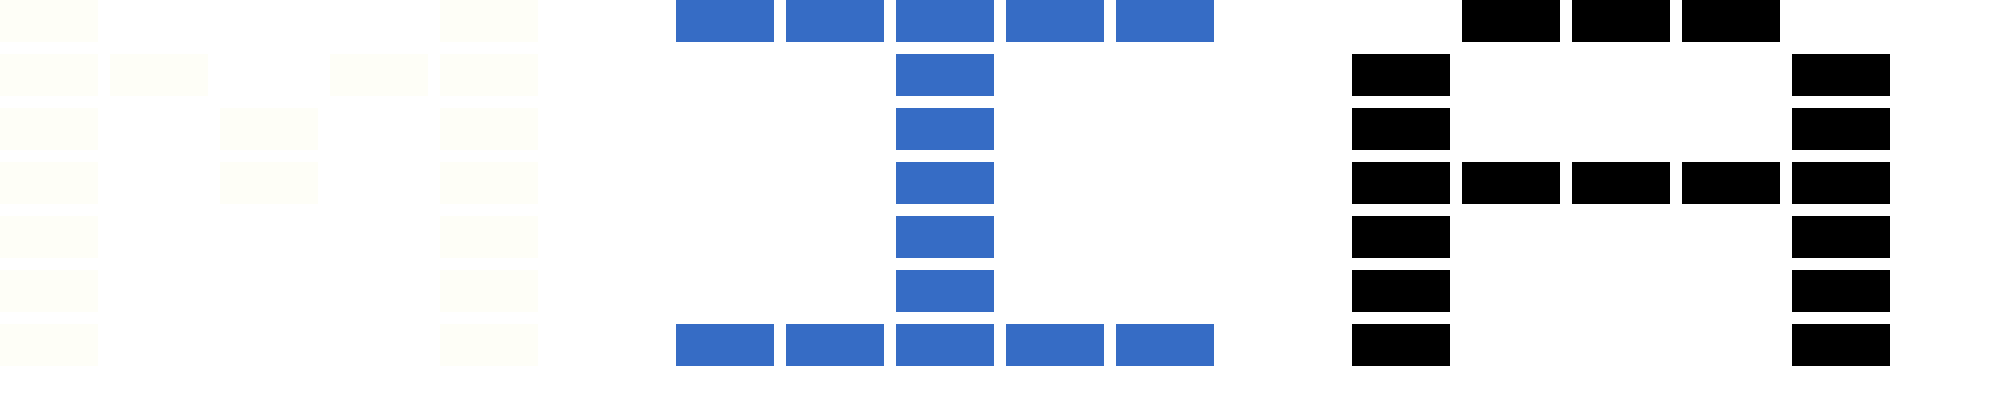
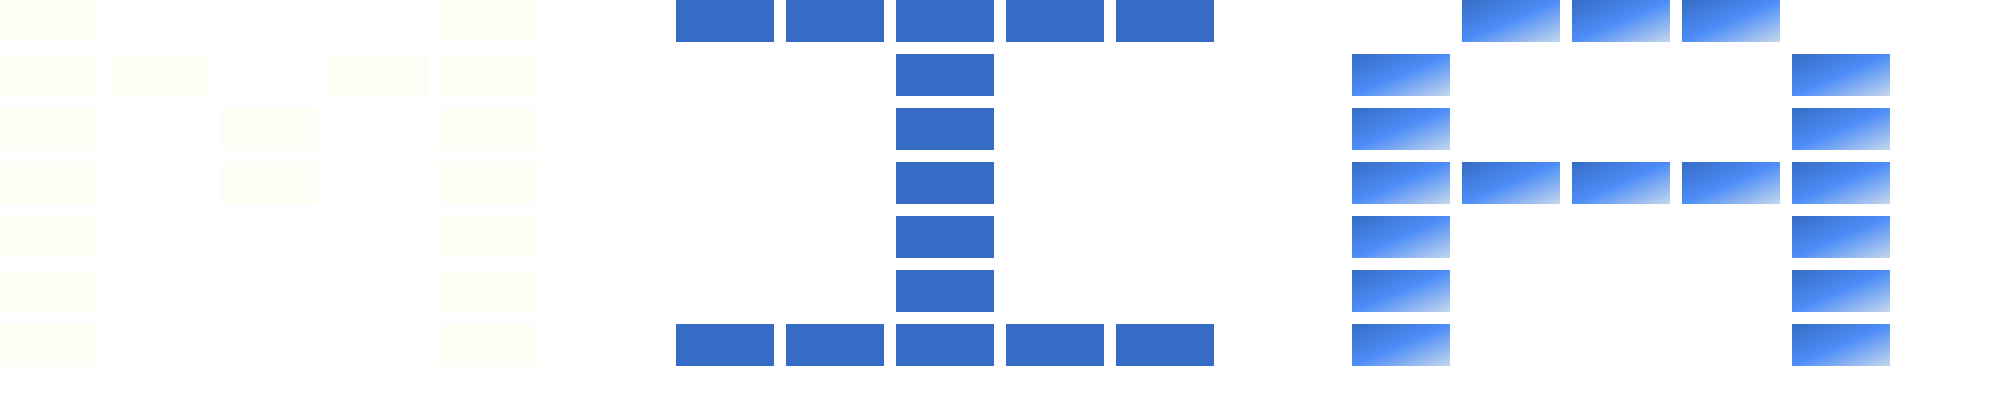
fix(wordmark): fix SVG gradient stop-color syntax to make letter A visible in dark mode

diff --git a/scripts/generate-logos.js b/scripts/generate-logos.js
@@ -123,10 +123,10 @@ function generateWordmarkSvg(inverted = false) {
 
   return `<svg xmlns="http://www.w3.org/2000/svg" viewBox="0 0 1000 200" width="1000" height="200" fill="none">
   <defs>
-    <linearGradient id="${gradientId}" x1="0" y1="0" x2="1" y2="1">
-      <stop offset="0" stopColor="#366CC5" />
-      <stop offset="0.58" stopColor="#366CC5" />
-      <stop offset="1" stopColor="#A9B5B9" />
+    <linearGradient id="${gradientId}" x1="0%" y1="0%" x2="100%" y2="100%">
+      <stop offset="0%" stop-color="#366CC5" />
+      <stop offset="50%" stop-color="${inverted ? '#4D8DF7' : '#366CC5'}" />
+      <stop offset="100%" stop-color="${inverted ? '#C5D7EC' : '#A9B5B9'}" />
     </linearGradient>
   </defs>
   <g>${rects}</g>

diff --git a/src/app/page.tsx b/src/app/page.tsx
@@ -89,8 +89,8 @@ function PixelWordmark({ inverted = false }: { inverted?: boolean }) {
       <defs>
         <linearGradient id={gradientId} x1="0" y1="0" x2="1" y2="1">
           <stop offset="0" stopColor="#366CC5" />
-          <stop offset="0.58" stopColor="#366CC5" />
-          <stop offset="1" stopColor="#A9B5B9" />
+          <stop offset="0.5" stopColor={inverted ? "#4D8DF7" : "#366CC5"} />
+          <stop offset="1" stopColor={inverted ? "#C5D7EC" : "#A9B5B9"} />
         </linearGradient>
       </defs>
       {cells.map(({ x, y, letter, index }) => (
